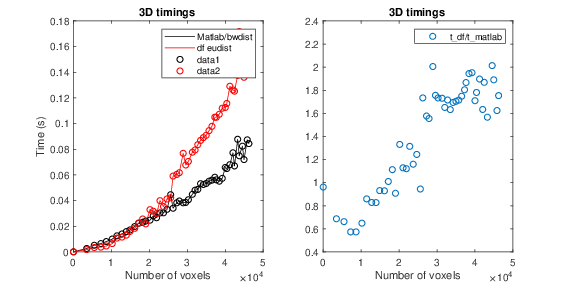
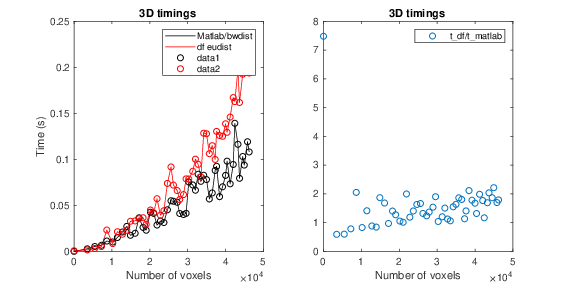
added isotropic case

diff --git a/eudist.c b/eudist.c
@@ -113,6 +113,33 @@ void matrix_show(double * M, size_t m, size_t n, size_t p)
 }
 
 
+void pass12_iso(double * restrict B, double * restrict D, const size_t L)
+/* Pass 1 and 2 for a line (stride 1, since only run along the first dimension) */
+{
+
+  // Pass 1
+  double d = INFINITY;
+  for( size_t ll = 0; ll<L; ll++) // For each row
+  {
+    d++;
+    if(B[ll] == 1)
+      d = 0;
+    D[ll] = d;
+  }
+
+  // Pass 2
+  d = INFINITY;
+  for( size_t ll = L ; ll-- > 0; ) // For each row
+  {
+    d++;
+    if(B[ll] == 1)
+      d = 0;
+    if(d<D[ll])
+      D[ll] = d;
+  }
+  return;
+}
+
 void pass12(double * restrict B, double * restrict D, const size_t L, const double dx)
 /* Pass 1 and 2 for a line (stride 1, since only run along the first dimension) */
 {
@@ -140,6 +167,78 @@ void pass12(double * restrict B, double * restrict D, const size_t L, const doub
   return;
 }
 
+void pass34_iso(double * restrict D, // Read distances
+    double * restrict D0, // Write distances
+    int * restrict S, int * restrict T, // Temporary pre-allocated storage
+    const int L, // Number of elements in this dimension
+    const int stride) // voxel size in this dimension
+{
+  // 3: Forward
+  const double d = 1;
+  const double d2 = 1;
+  int q = 0;
+  double w = 0;
+  S[0] = 0;
+  T[0] = 0;
+
+  for(int u = 1; u<L; u++) // For each column
+  {
+    // f(t[q],s[q]) > f(t[q], u)
+    // f(x,i) = (x-i)^2 + g(i)^2
+    while(q >= 0 && ( (pow(d*(T[q]-S[q]),2) + pow(D[stride*S[q]],2)) >=
+          (pow(d*(T[q]-u), 2) +  pow(D[stride*u],2)) ) )
+      q--;
+
+    if(q<0)
+    {
+      q = 0;
+      S[0] = u;
+      T[0] = 0;
+      if(verbose > 2)
+        printf("reset, S[0] = %d\n", S[0]);
+    }
+    else
+    {
+      // w = 1 + Sep(s[q],u)
+      // Sep(i,u) = (u^2-i^2 +g(u)^2-g(i)^2) div (2(u-i))
+      // where division is rounded off towards zero
+      w = 1 + floor0( ( pow(d*u,2)  - pow(d*(double) S[q],2) 
+            + pow(D[stride*u],2) - pow(D[stride*S[q]],2))/(d2*2*(u-(double) S[q])));
+      // because of overflow, w is double. T does not have to be
+      // double
+      // printf("q: %d, u: %d, S[q]: %d, D[stride*u]: %f D[stride*S[q]] %f, w: %f\n", q, u, S[q], D[stride*u], D[stride*S[q]], w);
+      if(verbose > 0)
+        printf("u/kk: %d, S[q] = %d, q: %d w: %f\n", u, S[q], q, w);
+
+      if(w<L)
+      {
+        q++;
+        S[q] = (int) u; // The point where the segment is a minimizer
+        T[q] = (int) w; // The first pixel of the segment
+      }
+    }
+    if(0){
+      printf(" #, minPos, firstPixel, minValue\n"); 
+      for(int tt = 0; tt<=q; tt++)
+      {
+        printf(" %d, %6d, %d, %6.2f\n", tt, S[tt], T[tt], D[stride*S[tt]]);
+      }
+    }
+  }
+
+  // 4: Backward  
+  for(int u = L-1; u > -1 ; u--)
+  {
+    //dt[u,y]:=f(u,s[q])
+    if(verbose>3)
+      printf("u: %d, q: %d S[%d] = %d\n", u, q, q, S[q]);
+    D[u*stride] = sqrt(pow(d*(u-S[q]),2)+pow(D0[stride*S[q]], 2));
+    if(u == (int) T[q])
+      q--;
+  }
+}
+
+
 void pass34(double * restrict D, // Read distances
     double * restrict D0, // Write distances
     int * restrict S, int * restrict T, // Temporary pre-allocated storage
@@ -152,7 +251,7 @@ void pass34(double * restrict D, // Read distances
   double w = 0;
   S[0] = 0;
   T[0] = 0;
-  double d2 = d*d;
+  const double d2 = d*d;
 
   for(int u = 1; u<L; u++) // For each column
   {
@@ -227,13 +326,23 @@ void edt(double * restrict B, double * restrict D, const size_t M, const size_t 
   // First dimension, pass 1 and 2
   //
 
+  if(dx == 1)
+  {
+  #pragma omp parallel for
+  for(size_t kk = 0; kk<N*P; kk++) // For each column
+  {
+    size_t offset = kk*M;
+    pass12_iso(B+offset, D+offset, M);
+  }
+
+  } else {
   #pragma omp parallel for
   for(size_t kk = 0; kk<N*P; kk++) // For each column
   {
     size_t offset = kk*M;
     pass12(B+offset, D+offset, M, dx);
   }
-
+  }
   if(verbose>1)
   {
     printf("D:\n");
@@ -259,6 +368,19 @@ void edt(double * restrict B, double * restrict D, const size_t M, const size_t 
   int length = N;
   int stride = M;
 
+  if(dy == 1)
+  {
+ #pragma omp parallel for
+  for(int kk = 0; kk<P; kk++) // slice
+  {
+    for(int ll = 0; ll<M; ll++) // row
+    {
+      size_t offset = kk*M*N + ll;
+      pass34_iso(D+offset, D0+offset, S+nL*kk, T+nL*kk, length, stride);
+    }
+  }
+
+  } else {
   #pragma omp parallel for
   for(int kk = 0; kk<P; kk++) // slice
   {
@@ -267,6 +389,7 @@ void edt(double * restrict B, double * restrict D, const size_t M, const size_t 
       size_t offset = kk*M*N + ll;
       pass34(D+offset, D0+offset, S+nL*kk, T+nL*kk, length, stride, dy);
     }
+  }
   }
 
   if(verbose>1)
@@ -282,7 +405,19 @@ void edt(double * restrict B, double * restrict D, const size_t M, const size_t 
   {
     length = P;
     stride = M*N;
-
+if(dz == 1)
+{
+    #pragma omp parallel for
+    for(int kk = 0; kk<M; kk++)
+    {
+      for(int ll = 0; ll<N; ll++)
+      {
+        size_t offset = kk + ll*M;
+        pass34_iso(D+offset, D0+offset, S+nL*kk, T+nL*kk, length, stride);
+      }
+    }
+}
+else {
     #pragma omp parallel for
     for(int kk = 0; kk<M; kk++)
     {
@@ -293,6 +428,7 @@ void edt(double * restrict B, double * restrict D, const size_t M, const size_t 
       }
     }
   }
+}
 
   if(verbose>1)
   {

diff --git a/df_eudist_ut.m b/df_eudist_ut.m
@@ -39,12 +39,13 @@ end
 function test_speed_image()
 
 B = zeros(1024, 1024, 60);
+fprintf('Timings for an isotropic %dx%dx%d image\n', size(B,1), size(B,2), size(B,3));
 for kk = 1:50
     B(randi(size(B,1)), randi(size(B,2)), randi(size(B,3))) = 1;
 end
 
 tic
-D = bwdistsc(B, [1, 1, 1.0002]);
+D = bwdistsc(B, [1, 1, 1]);
 t_bwdistsc = toc;
 
 tic
@@ -52,7 +53,7 @@ D = bwdist(B);
 t_matlab = toc;
 
 tic
-D = df_eudist(B, [1, 1, 1.0002]);
+D = df_eudist(B);
 t_eudist = toc;
 
 
